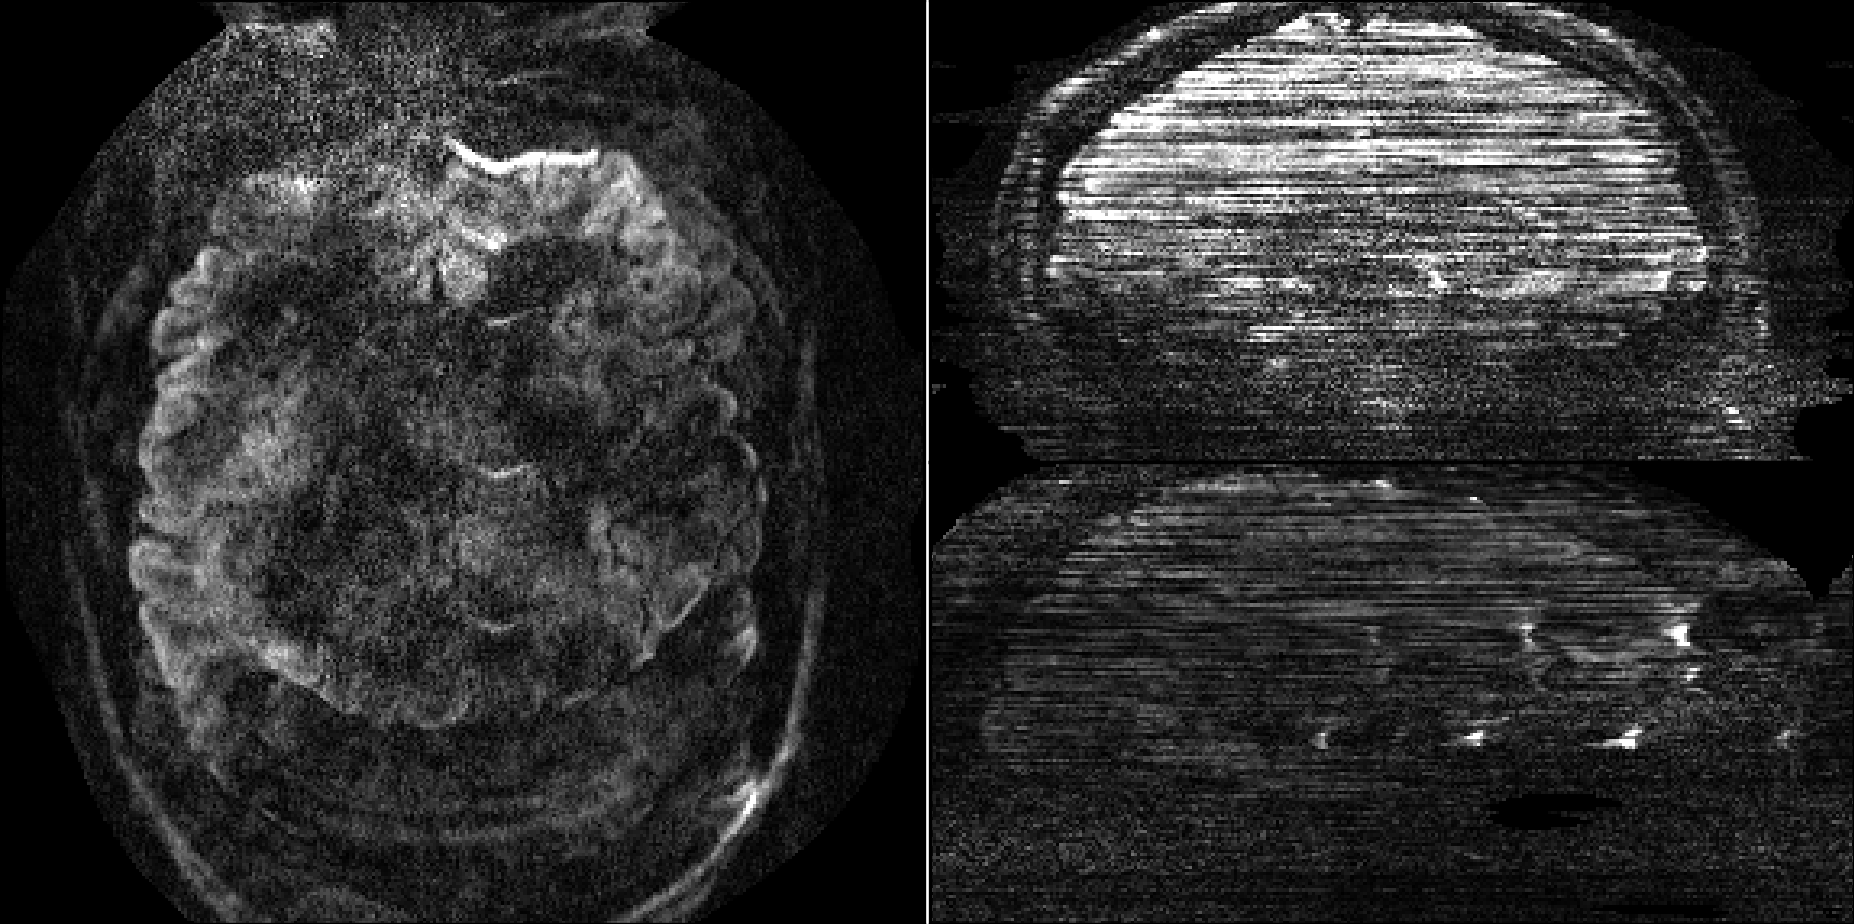
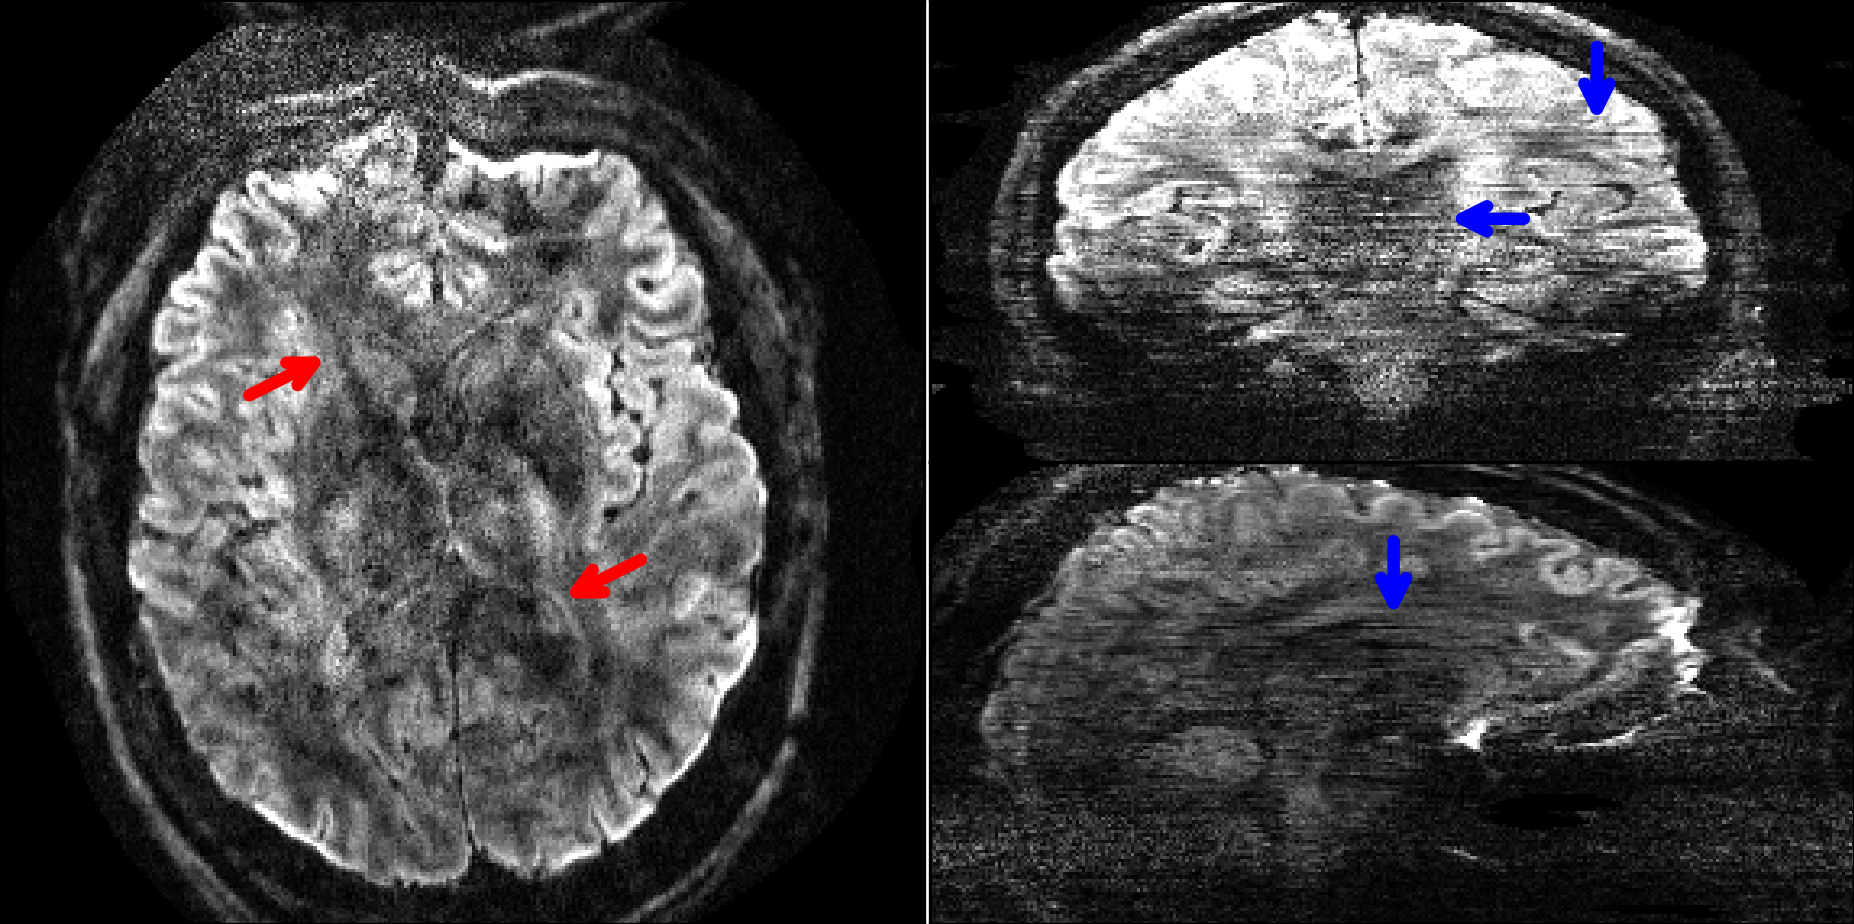
update figures/motion_self/

diff --git a/figures/motion_self/plot.py b/figures/motion_self/plot.py
@@ -19,13 +19,13 @@ for met in ['muse', 'jets', 'zsssl']:
 
     if met == 'muse':
         f = h5py.File('/home/atuin/b143dc/b143dc15/Experiments/2024-06-10_Terra_Diffusion_iEPI/meas_MID00329_FID25293_ep2d_diff_ms_mddw_0_7mm_self/MUSE_PHASE-IMAG-REDU.h5', 'r')
-    
+
     elif met == 'jets':
         f = h5py.File('/home/atuin/b143dc/b143dc15/Experiments/2024-06-10_Terra_Diffusion_iEPI/meas_MID00329_FID25293_ep2d_diff_ms_mddw_0_7mm_self/JETS_PHASE-IMAG-REDU.h5', 'r')
-    
+
     elif met == 'zsssl':
         f = h5py.File('/home/atuin/b143dc/b143dc15/Softwares/DeepDWI/examples/2024-06-14_zsssl_0.7mm_21-dir_R2x2_vol2_scan2_kdat_slice_040_norm-kdat-1.0_self_ResNet2D_ResBlock-12_kernel-3_ADMM_08_lamda-0.050_Adam_lr-0.000500_MixL1L2Loss/zsssl_test_shot-retro-0.h5', 'r')
-    
+
     DWI = f['DWI'][:]
     f.close()
 
@@ -48,32 +48,52 @@ for met in ['muse', 'jets', 'zsssl']:
     ax.append(fig.add_subplot(gs[0,1]))
     ax.append(fig.add_subplot(gs[1,1]))
 
-    diff_idx = 11
+    diff_idx = 15
 
     # axial
     tra_slice_idx = 109
     img = np.flip(abs(DWI[diff_idx, tra_slice_idx, :, :]), axis=(-2))
     ax[0].imshow(img, cmap='gray',
-                 interpolation=None, vmin=0, vmax=np.amax(img)*0.4)
+                 interpolation=None, vmin=0, vmax=np.amax(img)*0.25)
+
+    ax[0].annotate("", xy=(0.60*N_x, 0.65*N_y), xytext=(0.70*N_x, 0.60*N_y),
+                   arrowprops=dict(arrowstyle="->", color='r', linewidth=3,
+                                   mutation_scale=15))
+
+    ax[0].annotate("", xy=(0.36*N_x, 0.38*N_y), xytext=(0.26*N_x, 0.43*N_y),
+                   arrowprops=dict(arrowstyle="->", color='r', linewidth=3,
+                                   mutation_scale=15))
 
     # coronal
     cor_slice_idx = 124
     img = np.flip(abs(DWI[diff_idx, (N_z - int(N_x/2)):, cor_slice_idx, :]), axis=(-2))
     ax[1].imshow(img, cmap='gray',
-                 interpolation=None, vmin=0, vmax=np.amax(img)*0.4)
+                 interpolation=None, vmin=0, vmax=np.amax(img)*0.40)
+
+    ax[1].annotate("", xy=(0.72*N_x, 0.28*N_x/2), xytext=(0.72*N_x, 0.08*N_x/2),
+                   arrowprops=dict(arrowstyle="->", color='b', linewidth=3,
+                                   mutation_scale=15))
+
+    ax[1].annotate("", xy=(0.55*N_x, 0.47*N_x/2), xytext=(0.65*N_x, 0.47*N_x/2),
+                   arrowprops=dict(arrowstyle="->", color='b', linewidth=3,
+                                   mutation_scale=15))
 
     # sagittal
     sag_slice_idx = 150
     img = np.flip(abs(DWI[diff_idx, (N_z - int(N_x/2)):, :, sag_slice_idx]), axis=(-2))
 
     ax[2].imshow(img, cmap='gray',
-                 interpolation=None, vmin=0, vmax=np.amax(img)*0.4)
+                 interpolation=None, vmin=0, vmax=np.amax(img)*0.30)
+
+    ax[2].annotate("", xy=(0.50*N_x, 0.35*N_x/2), xytext=(0.50*N_x, 0.15*N_x/2),
+                   arrowprops=dict(arrowstyle="->", color='b', linewidth=3,
+                                   mutation_scale=15))
 
 
     for n in range(3):
         ax[n].axes.xaxis.set_ticks([])
         ax[n].axes.yaxis.set_ticks([])
-    
+
 
     if met == 'muse':
         ax[0].text(0.02*N_x, 0.06*N_x, 'Axial', bbox=props,
